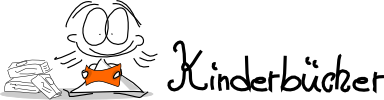
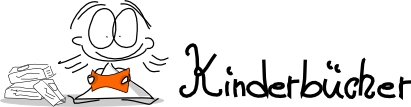
layout kinderbuchseite

diff --git a/_layouts/default_unterseiten.html b/_layouts/default_unterseiten.html
@@ -39,7 +39,7 @@
       </a>
      
      <div>
-      <img class="imgTitelUnterseiten" height="100" width="auto" src="/img/{{page.imgtitle}}.png" alt="{{page.title}}"  /> 
+      <img class="imgTitelUnterseiten" height="80" width="auto" src="/img/{{page.imgtitle}}.png" alt="{{page.title}}"  /> 
      </div>
      </div> 
      

diff --git a/css/main.css b/css/main.css
@@ -128,7 +128,7 @@ display: flex;
 
 .book_details {
 /*float:left;  */
-width: 450px;  
+width: 480px;  
 padding-left: 20px; 
   flex-grow:1;
 }
